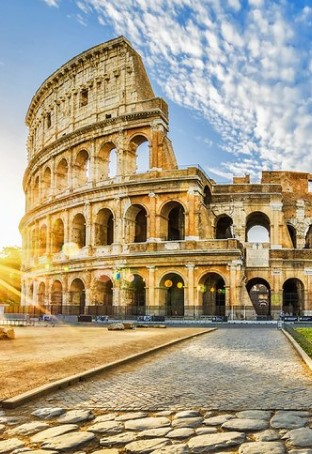
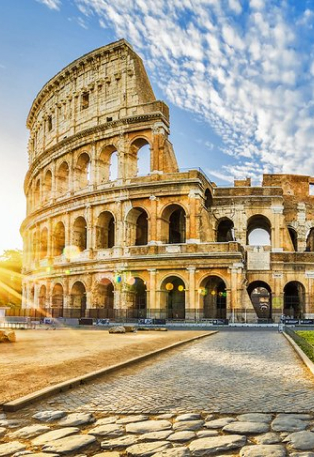
modify selling part

diff --git a/src/index.html b/src/index.html
@@ -154,10 +154,7 @@
 
             <div class="grid grid-cols-3 gap-20">
 
-                <div class="w-[315px] mx-auto h-[457px]  rounded-3xl overflow-hidden shadow-sellingShadow">
-                    <div class="h-[327px] w-full">
-                        <img class="images w-full h-full object-top"  src="images/Rectangle1.jpg" alt="images/Rectangle14.jpg">
-                    </div>
+                <div class="h-[457px] w-[315px] bg-[url(images/Rectangle1.jpg)] rounded-3xl shadow-sellingShadow overflow-hidden flex flex-col items-start justify-end">
                     <div class="w-full p-5 pb-11 bg-white">
                         <div class="flex items-center justify-between text-xl text-[#5E6282] font-poppins font-medium leading-[124.5%]">
                             <span>Rome, Italty</span>
@@ -169,28 +166,22 @@
                         </div>
                     </div>
                 </div>
-    
-                <div class="w-[315px] h-[457px] mx-auto rounded-3xl overflow-hidden shadow-sellingShadow">
-                    <div class="h-[327px] w-full">
-                        <img class="images w-full h-full object-top"  src="images/Rectangle2.jpg" alt="images/Rectangle14.jpg">
-                    </div>
+                
+                <div class="h-[457px] w-[315px] bg-[url(images/Rectangle2.jpg)] rounded-3xl shadow-sellingShadow overflow-hidden flex flex-col items-start justify-end">
                     <div class="w-full p-5 pb-11 bg-white">
                         <div class="flex items-center justify-between text-xl text-[#5E6282] font-poppins font-medium leading-[124.5%]">
-                            <span>London, UK</span>
-                            <span>$4,2k</span>
+                            <span>Rome, Italty</span>
+                            <span>$5,42k</span>
                         </div>
                         <div class="flex gap-4 items-center mt-5">
                             <i class="text-[20px] cursor-pointer fa-solid fa-location-arrow"></i>
-                            <span class="font-poppins text-[#5E6282] text-base leading-[124.5%]">12 Days Trip</span>
+                            <span class="font-poppins text-[#5E6282] text-base leading-[124.5%]">10 Days Trip</span>
                         </div>
                     </div>
                 </div>
-    
-                <div class="w-[315px] h-[457px] mx-auto rounded-3xl shadow-sellingShadow z-40 relative">
-                    <div class="rounded-3xl w-full h-full overflow-hidden">
-                        <div class="h-[327px] w-full">
-                            <img class="images w-full h-full object-top"  src="images/Rectangle3.jpg" alt="images/Rectangle14.jpg">
-                        </div>
+
+                <div class="h-[457px] w-[315px] bg-[url(images/Rectangle3.jpg)] rounded-3xl shadow-sellingShadow relative">
+                    <div class="rounded-3xl w-full h-full overflow-hidden flex flex-col items-start justify-end">
                         <div class="w-full p-5 pb-11 bg-white">
                             <div class="flex items-center justify-between text-xl text-[#5E6282] font-poppins font-medium leading-[124.5%]">
                                 <span>Full Europe</span>
@@ -204,7 +195,6 @@
                     </div>
                     <img class="absolute bottom-10 -right-14 -z-10" src="images/sellingSpin.png" alt="images/sellingSpin.png">
                 </div>
-    
             </div>
         </div>
 

diff --git a/src/output.css b/src/output.css
@@ -875,6 +875,10 @@ video {
   align-items: center;
 }
 
+.justify-end {
+  justify-content: flex-end;
+}
+
 .justify-center {
   justify-content: center;
 }
@@ -1032,6 +1036,18 @@ video {
 .bg-white {
   --tw-bg-opacity: 1;
   background-color: rgb(255 255 255 / var(--tw-bg-opacity, 1));
+}
+
+.bg-\[url\(images\/Rectangle1\.jpg\)\] {
+  background-image: url(images/Rectangle1.jpg);
+}
+
+.bg-\[url\(images\/Rectangle2\.jpg\)\] {
+  background-image: url(images/Rectangle2.jpg);
+}
+
+.bg-\[url\(images\/Rectangle3\.jpg\)\] {
+  background-image: url(images/Rectangle3.jpg);
 }
 
 .object-top {
